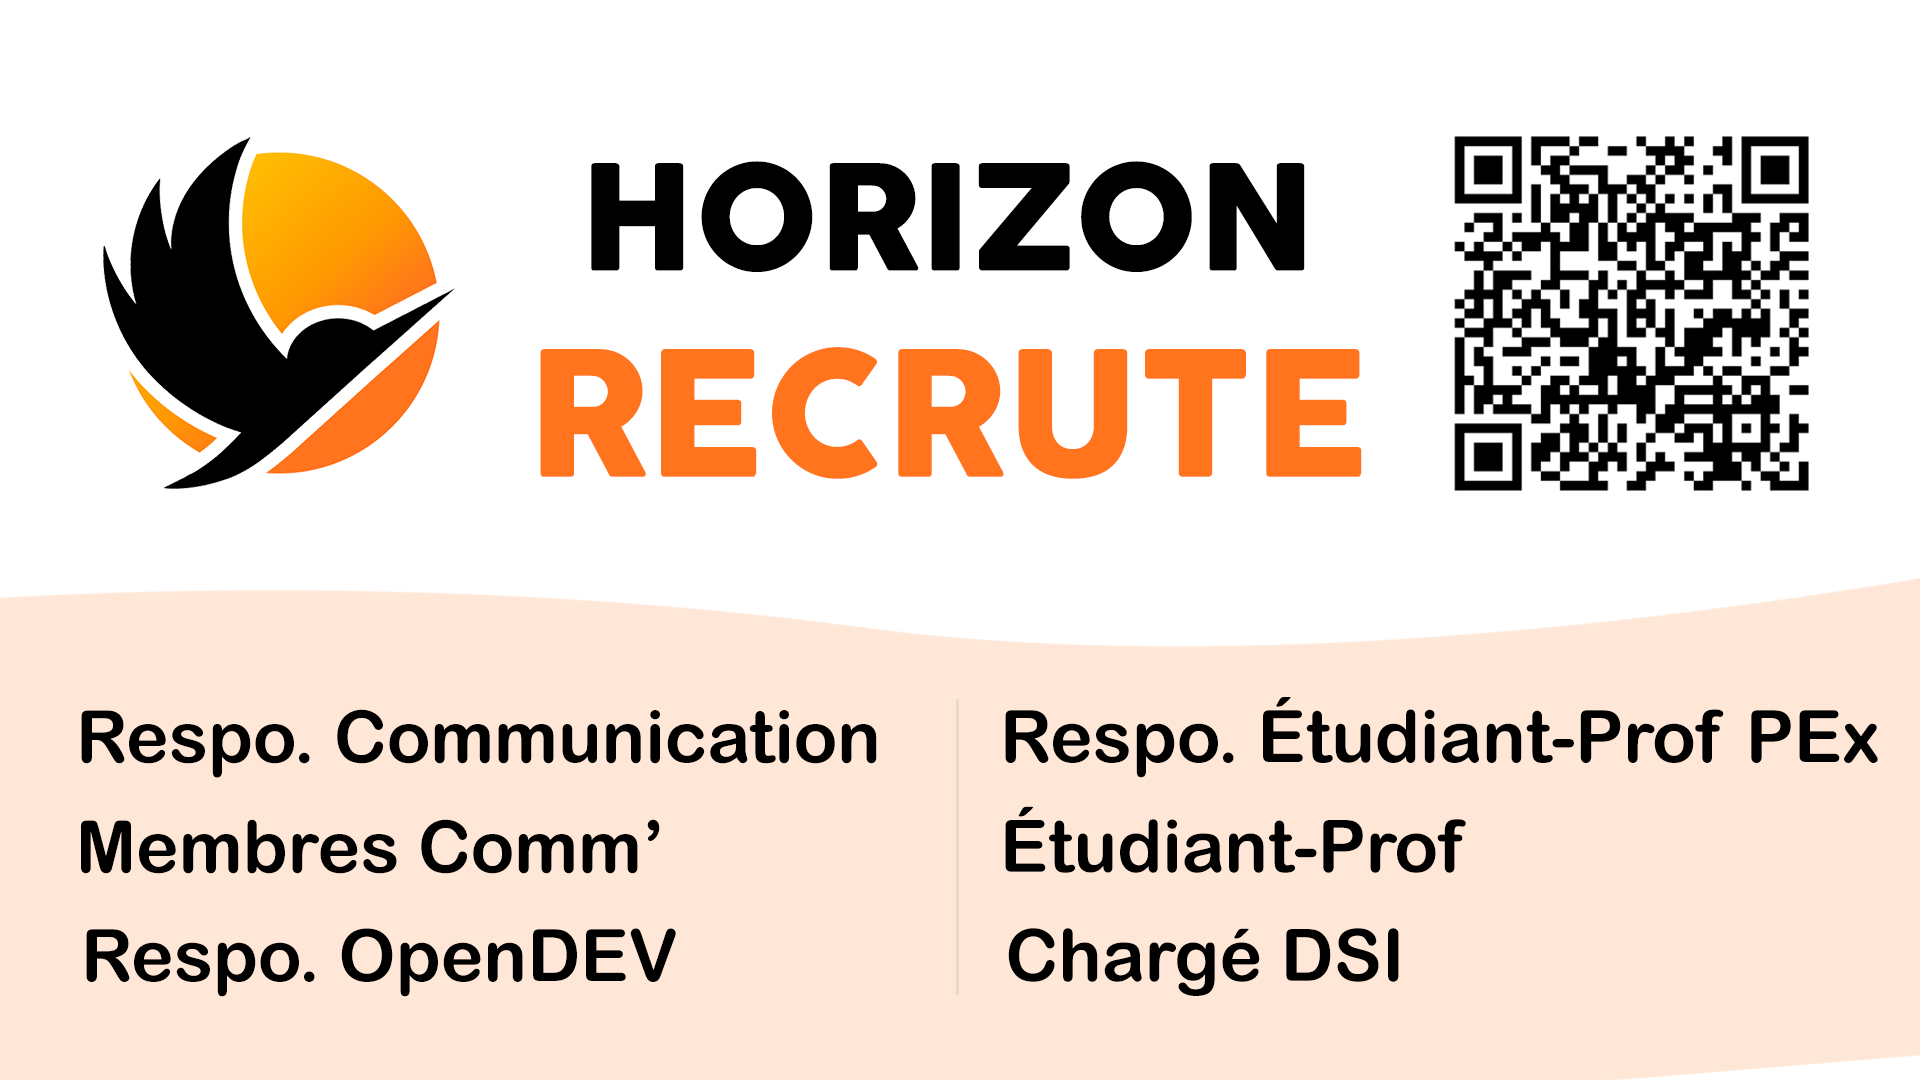
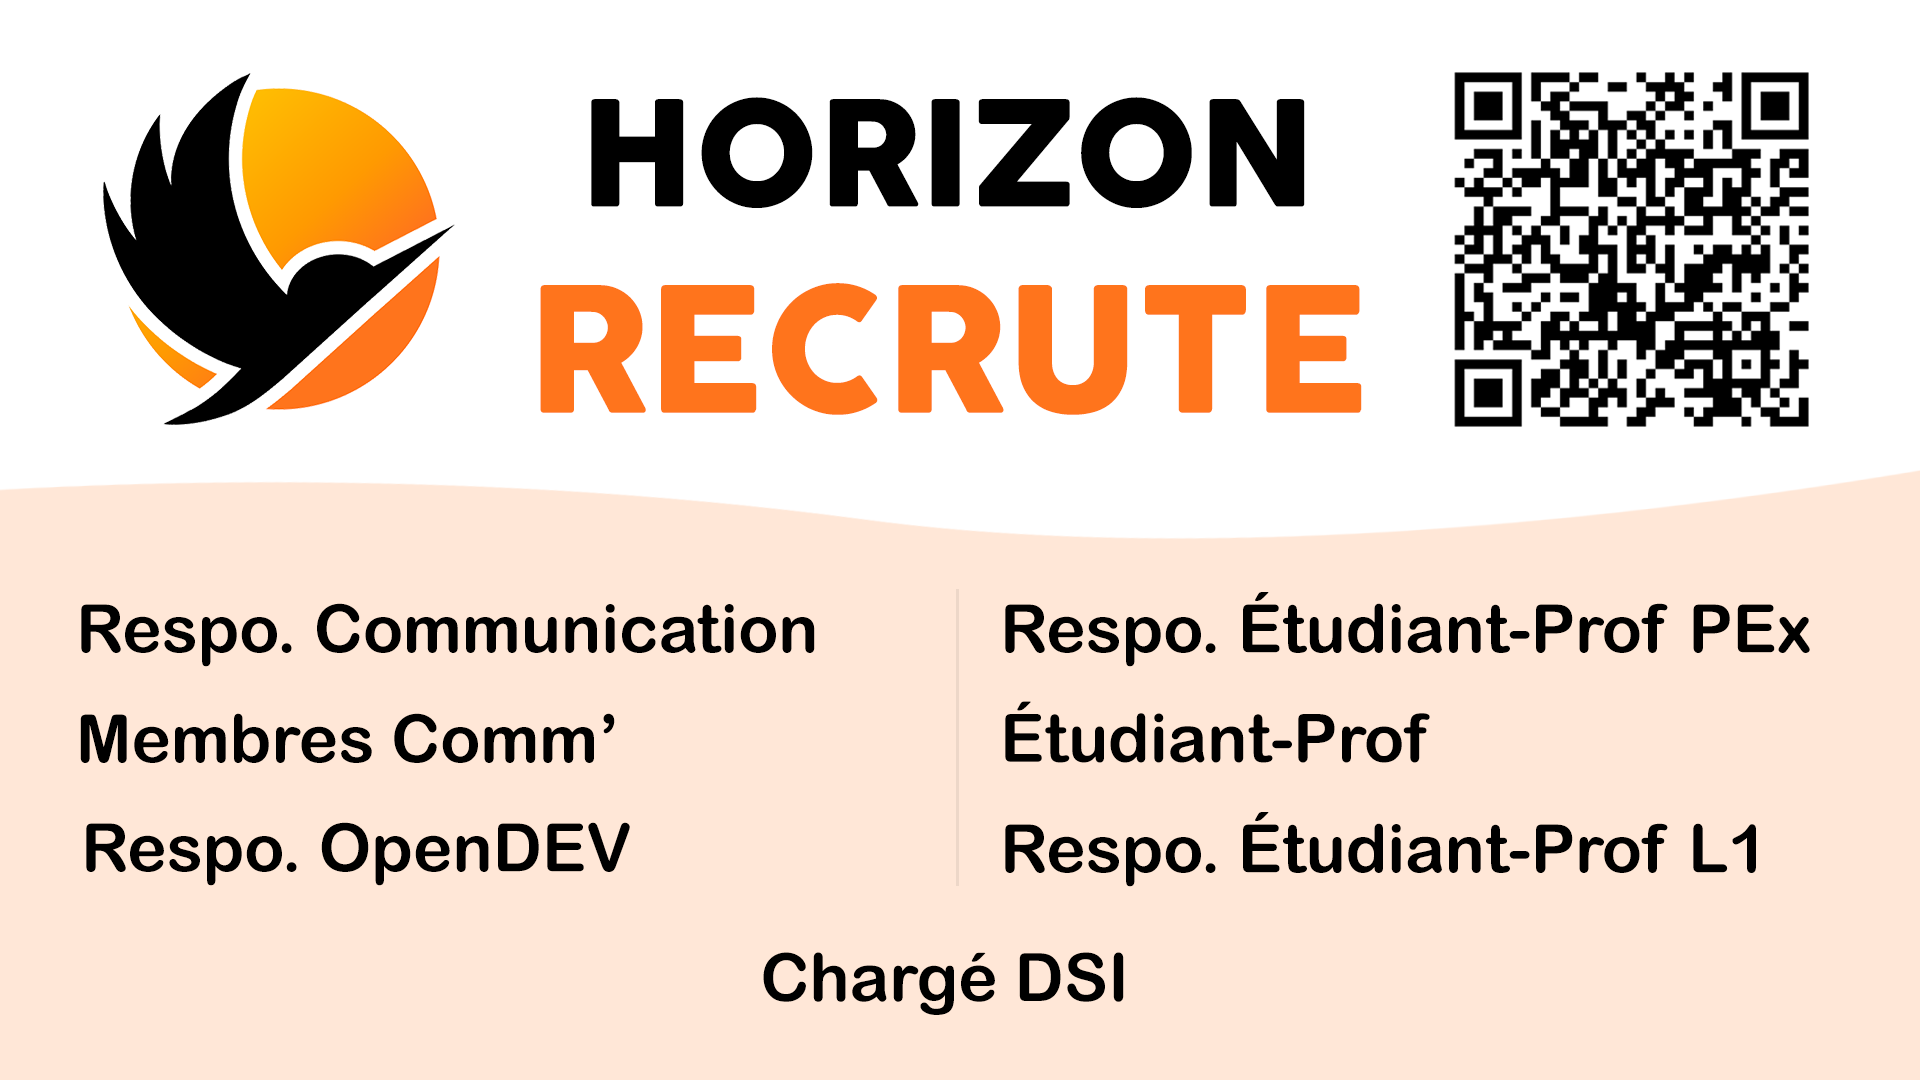
Ajout respo eProf P2027

diff --git a/resources/global/2022-2023/Annonce de recrutement Mars 2023.md b/resources/global/2022-2023/Annonce de recrutement Mars 2023.md
@@ -9,7 +9,8 @@ Nous recherchons :
     - :paintbrush: **Membre pôle Comm & Design**    *Participe à la communication de l'association*
     - :computer: **Responsable OpenDEV**                 *Gestion du pôle OpenDEV dédié à l'entraide entre projets Open-Source, la première étape pour vos projets personnels et académiques avant l'incubateur*
     - :globe_with_meridians: **Chargé DSI**        *Gestion des systèmes d'information de l'association (Sharepoint, Google Drive, Google Workspace...)*
-    - :billed_cap: **Responsable Étudiant-Prof PEx**    *Gestion des Étudiant-Profs et plannification des cours pour les PEx*
+    - :billed_cap: **Responsable Étudiant-Prof PEx**    *Gestion des Étudiant-Profs PEx et plannification des cours pour les PEx*
+    - :billed_cap: **Responsable Étudiant-Prof Promo 2027**    *Gestion des Étudiant-Profs L1 et plannification des cours de la promo 2027*
     - :teacher: **Étudiant-Prof**        *de n'importe quelle filière, en n'importe quelle promotion, pour n'importe quelle matière !*
 
 ||*Ca rapporte le précieux LXP, et un gros + sur vos CVs ! C'est cadeau*||
